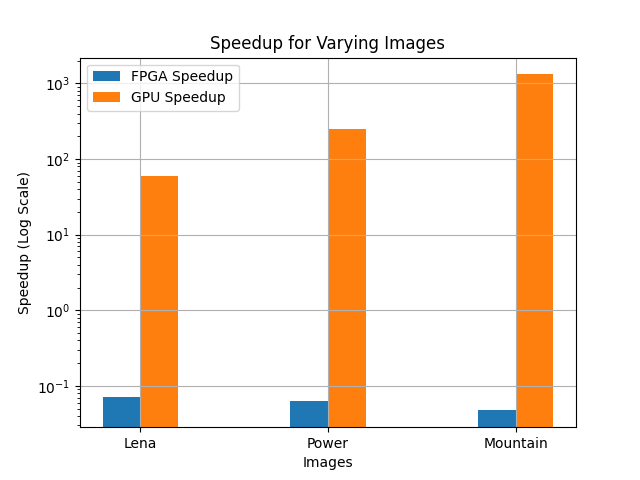
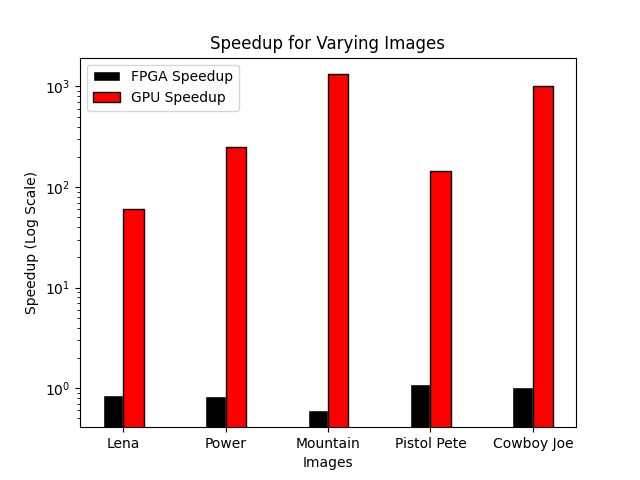
Graphs for grayscale

diff --git a/FPGA/Gray_Scale/graph.py b/FPGA/Gray_Scale/graph.py
@@ -2,21 +2,21 @@ import pandas as pd
 import matplotlib.pyplot as plt
 import numpy as np
 
-with open('README.md') as f:
-    rows = []
-    for row in f.readlines():
+# with open('README.md') as f:
+#     rows = []
+#     for row in f.readlines():
         
-        # Get rid of leading and trailing '|'
-        tmp = row[1:-2]
-        # Split line and ignore column whitespace
-        clean_line = [col.strip() for col in tmp.split('|')]
-        # Append clean row data to rows variable
-        rows.append(clean_line)
-    # Get rid of syntactical sugar to indicate header (2nd row)
-    rows = rows[:1] + rows[2:]
-print(rows)
-df = pd.DataFrame(rows)
-df.to_csv('my_file.csv', index=False, header=False)
+#         # Get rid of leading and trailing '|'
+#         tmp = row[1:-2]
+#         # Split line and ignore column whitespace
+#         clean_line = [col.strip() for col in tmp.split('|')]
+#         # Append clean row data to rows variable
+#         rows.append(clean_line)
+#     # Get rid of syntactical sugar to indicate header (2nd row)
+#     rows = rows[:1] + rows[2:]
+# print(rows)
+# df = pd.DataFrame(rows)
+# df.to_csv('my_file.csv', index=False, header=False)
 
 data=pd.read_csv('my_file.csv')
 Image=data['Image'].to_numpy()
@@ -32,10 +32,10 @@ x=np.arange(len(Image))
 width =.2
 
 fig, (ax1)= plt.subplots(1,1)
-ax1.bar(x-width, CPU,width, label="CPU Exec Time")
-ax1.bar(x, FPGA,width, label="FPGA Exec Time")
-ax1.bar(x+width, GPU,width, label="GPU Exec Time")
-ax1.grid()
+ax1.bar(x-width, CPU,width, color='lightgrey', edgecolor='blue', label="CPU Exec Time")
+ax1.bar(x, FPGA,width, color='k',edgecolor='white', label="FPGA Exec Time")
+ax1.bar(x+width, GPU,width, color='r',edgecolor='black', label="GPU Exec Time")
+# ax1.grid()
 ax1.legend()
 ax1.set_yscale("log")
 ax1.set_xlabel('Images')
@@ -47,9 +47,9 @@ plt.savefig('fig_1.png')
 plt.show()
 
 fig, (ax2)= plt.subplots(1,1)
-ax2.bar(x-width/2, SU_FPGA,width, label="FPGA Speedup")
-ax2.bar(x+width/2, SU_GPU,width, label="GPU Speedup")
-ax2.grid()
+ax2.bar(x-width/2, SU_FPGA,width,color='k',edgecolor='white', label="FPGA Speedup")
+ax2.bar(x+width/2, SU_GPU,width, color='r',edgecolor='black',label="GPU Speedup")
+# ax2.grid()
 ax2.legend()
 ax2.set_yscale("log")
 ax2.set_xlabel('Images')
@@ -61,9 +61,9 @@ plt.savefig('fig_2.png')
 plt.show()
 
 fig, (ax3)= plt.subplots(1,1)
-ax3.bar(x-width/2, through_FPGA,width, label="FPGA Througput")
-ax3.bar(x+width/2, through_GPU,width, label="GPU Throughput")
-ax3.grid()
+ax3.bar(x-width/2, through_FPGA,width,color='k',edgecolor='white', label="FPGA Througput")
+ax3.bar(x+width/2, through_GPU,width, color='r',edgecolor='black',label="GPU Throughput")
+# ax3.grid()
 ax3.legend()
 ax3.set_xlabel('Images')
 ax3.set_xticks(x)
